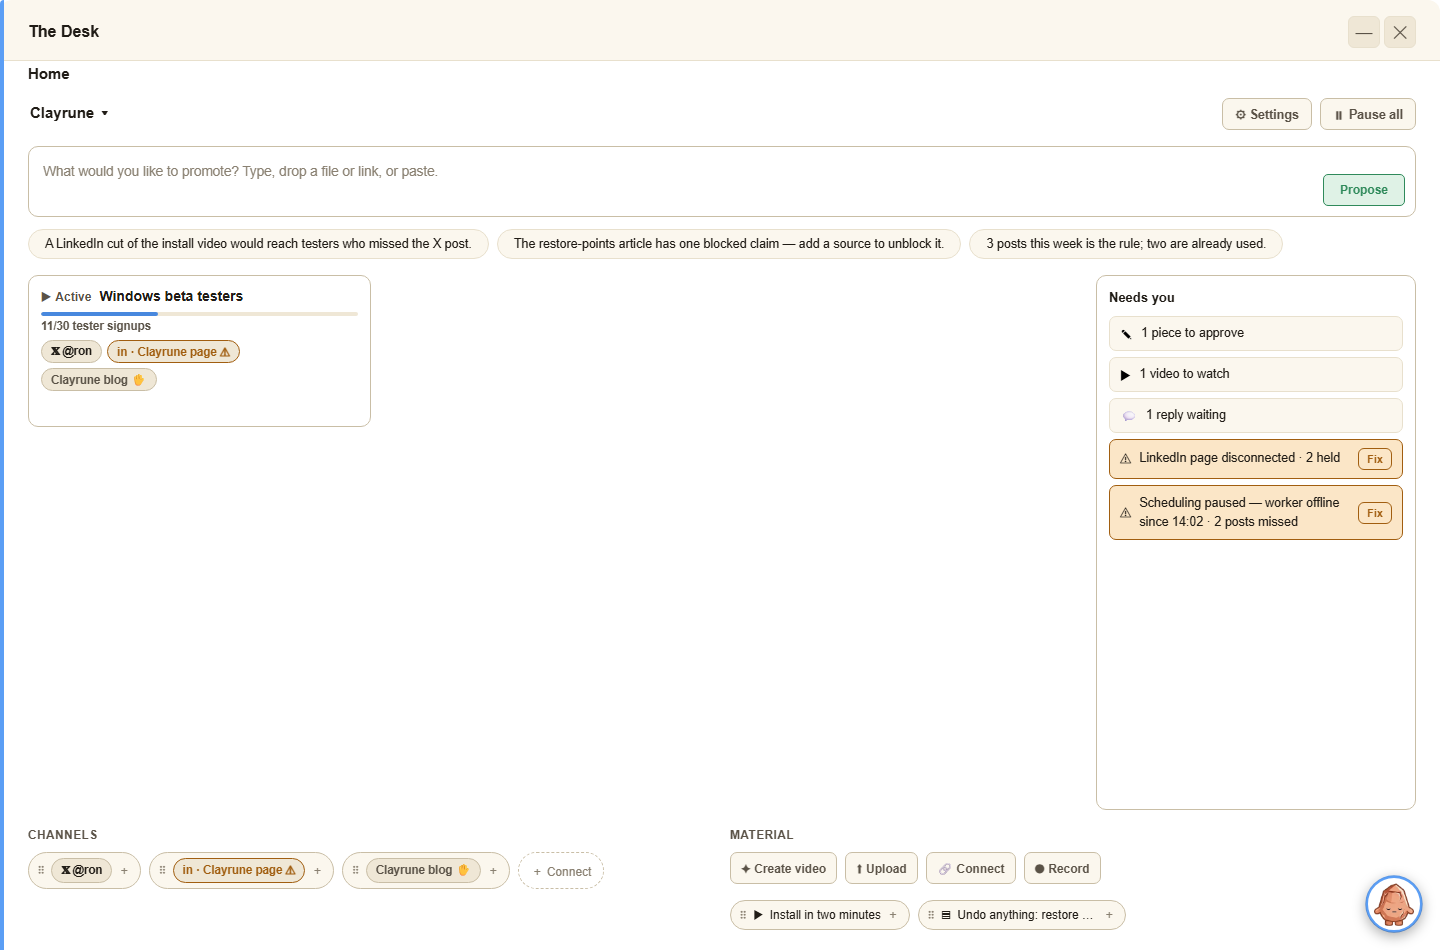
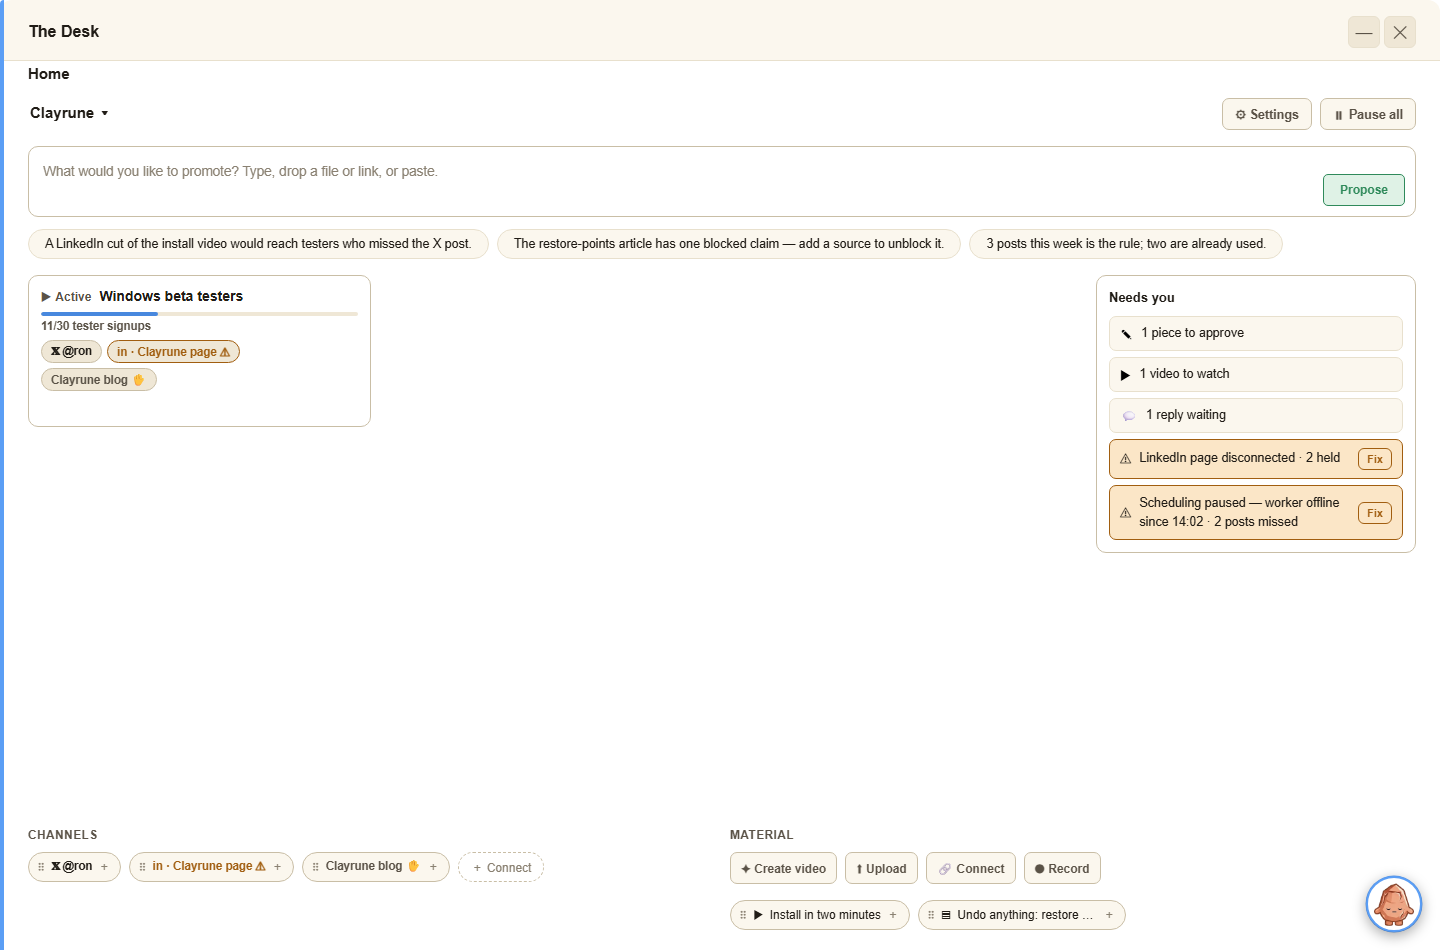
Desk v1 T1: fix Dave's 5-point review (phone order/width, video route, Needs-you sizing, channel badge nesting)
- Phone stack order was cards-before-Needs-you (DOM order); §11 wants
  promote, Needs you, then campaign cards. Fixed via CSS `order` on the two
  flex children rather than reordering the DOM (JS still renders into the
  same #desk-v1-home-cards/-needsyou hosts desktop uses).
- Phone campaign card sat in a 2-col grid, half width with empty space
  beside it; grid-template-columns now 1fr at <=960px.
- "N video(s) to watch" deep-linked to route 'review' (12b); §2 names three
  distinct review surfaces (12b/12c/12d) per kind, so video now routes to
  'video' (12d, T5's surface) with the same campaignId+versionId params.
- Needs-you card stretched to the cards column's flex height with ~60%
  empty space; added align-self:start so it sizes to its own content.
- Channel shelf items nested a channelBadge (its own pill: border+radius+
  background) inside the shelf-item wrapper (also its own pill), rendering
  as a double border. Scoped override drops the badge's own pill styling
  only inside .desk-v1-shelf-item, where the wrapper is the one outline.

Smoke: desk-v1-home.mjs gets route-name assertions per Needs-you row kind,
phone stack-order + full-width assertions, and new desktop checks for the
Needs-you content-sizing and single-pill channel badge.

Changed region(s): [[0.0312, 0.8853, 0.4062, 0.9463]]

diff --git a/static/css/desk-v1.css b/static/css/desk-v1.css
@@ -279,7 +279,7 @@
 }
 
 .desk-v1-home-needsyou {
-  flex: 0 0 320px; overflow-y: auto; background: var(--surface); border: 1px solid var(--border2);
+  flex: 0 0 320px; align-self: start; overflow-y: auto; background: var(--surface); border: 1px solid var(--border2);
   border-radius: 10px; padding: 12px; display: flex; flex-direction: column; gap: 8px;
 }
 .desk-v1-home-needsyou-title { font-size: 13px; font-weight: 700; color: var(--text); }
@@ -322,6 +322,12 @@
 .desk-v1-shelf-item-dragging { opacity: 0.4; }
 .desk-v1-shelf-grip { color: var(--text-faint); font-size: 11px; }
 .desk-v1-shelf-add { color: var(--text-faint); font-size: 12px; }
+/* Channel shelf items nest a channelBadge inside the shelf-item wrapper,
+   which is itself pill-shaped (line above) — without this, the badge's own
+   border/background (desk-v1-kit.js channelBadge, used bare on campaign
+   cards where IT is the only pill) drew a second nested pill here. Scoped
+   to shelf items only, so campaign-card badges keep their own outline. */
+.desk-v1-shelf-item .desk-v1-channel-badge { background: none; border: none; padding: 0; border-radius: 0; }
 .desk-v1-home-asset-thumb { font-size: 12px; }
 .desk-v1-home-asset-title {
   font-size: 12px; color: var(--text); max-width: 140px; overflow: hidden;
@@ -364,8 +370,11 @@
      section below. flex:0 0 auto + the body's own overflow-y:auto (T0a)
      makes the whole page scroll instead. */
   .desk-v1-home-main { flex: 0 0 auto; flex-direction: column; overflow-y: visible; }
-  .desk-v1-home-cards { grid-template-columns: repeat(2, minmax(0, 1fr)); }
-  .desk-v1-home-needsyou { flex: 0 0 auto; overflow-y: visible; }
+  /* §11 phone order: promote, Needs you, THEN campaign cards — reordered
+     visually via `order` rather than the DOM (JS renders cards first, into
+     the same #desk-v1-home-cards/-needsyou hosts desktop uses). */
+  .desk-v1-home-cards { order: 2; grid-template-columns: 1fr; }
+  .desk-v1-home-needsyou { order: 1; flex: 0 0 auto; align-self: stretch; overflow-y: visible; }
   .desk-v1-home-shelves { grid-template-columns: 1fr; }
   .desk-v1-home-needsyou-row, .desk-v1-shelf-item, .desk-v1-home-material-tile,
   .desk-v1-home-settings-btn, .desk-v1-home-pause-btn, .desk-v1-home-hold-fix { min-height: 44px; }

diff --git a/static/js/desk-v1-home.js b/static/js/desk-v1-home.js
@@ -282,8 +282,13 @@
 
   // ── render: Needs you (right column) ────────────────────────────────────
   function _needsYouRowHTML(glyph, text, firstItem) {
+    // Each kind deep-links to its own review surface (§2: "12b, 12c, or
+    // 12d, not to a list") — video rows go to the director (12d/T5), never
+    // the piece-review surface, even though both carry campaignId+versionId.
     const onclick = firstItem.kind === 'reply'
       ? `deskV1Nav('conversations',{campaignId:'${esc(firstItem.campaignId)}',conversationId:'${esc(firstItem.conversationId)}'})`
+      : firstItem.kind === 'video'
+      ? `deskV1Nav('video',{campaignId:'${esc(firstItem.campaignId)}',versionId:'${esc(firstItem.versionId)}'})`
       : `deskV1Nav('review',{campaignId:'${esc(firstItem.campaignId)}',versionId:'${esc(firstItem.versionId)}'})`;
     return `<button type="button" class="desk-v1-home-needsyou-row" onclick="${onclick}">
       <span class="desk-v1-home-needsyou-glyph" aria-hidden="true">${esc(glyph)}</span>
